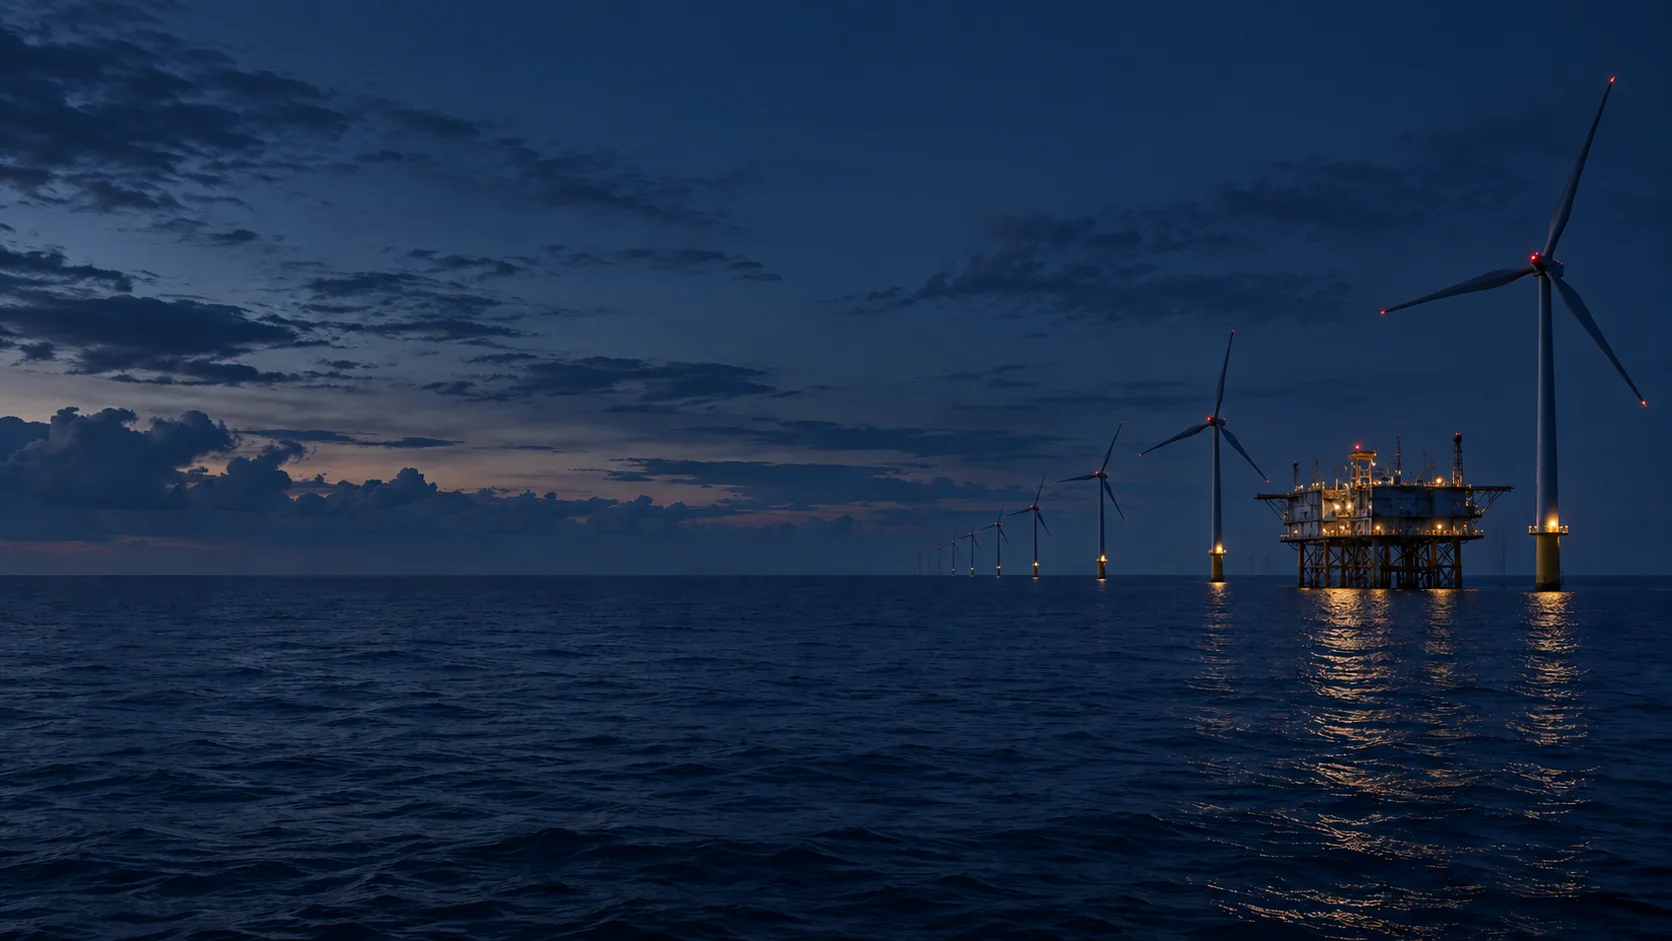
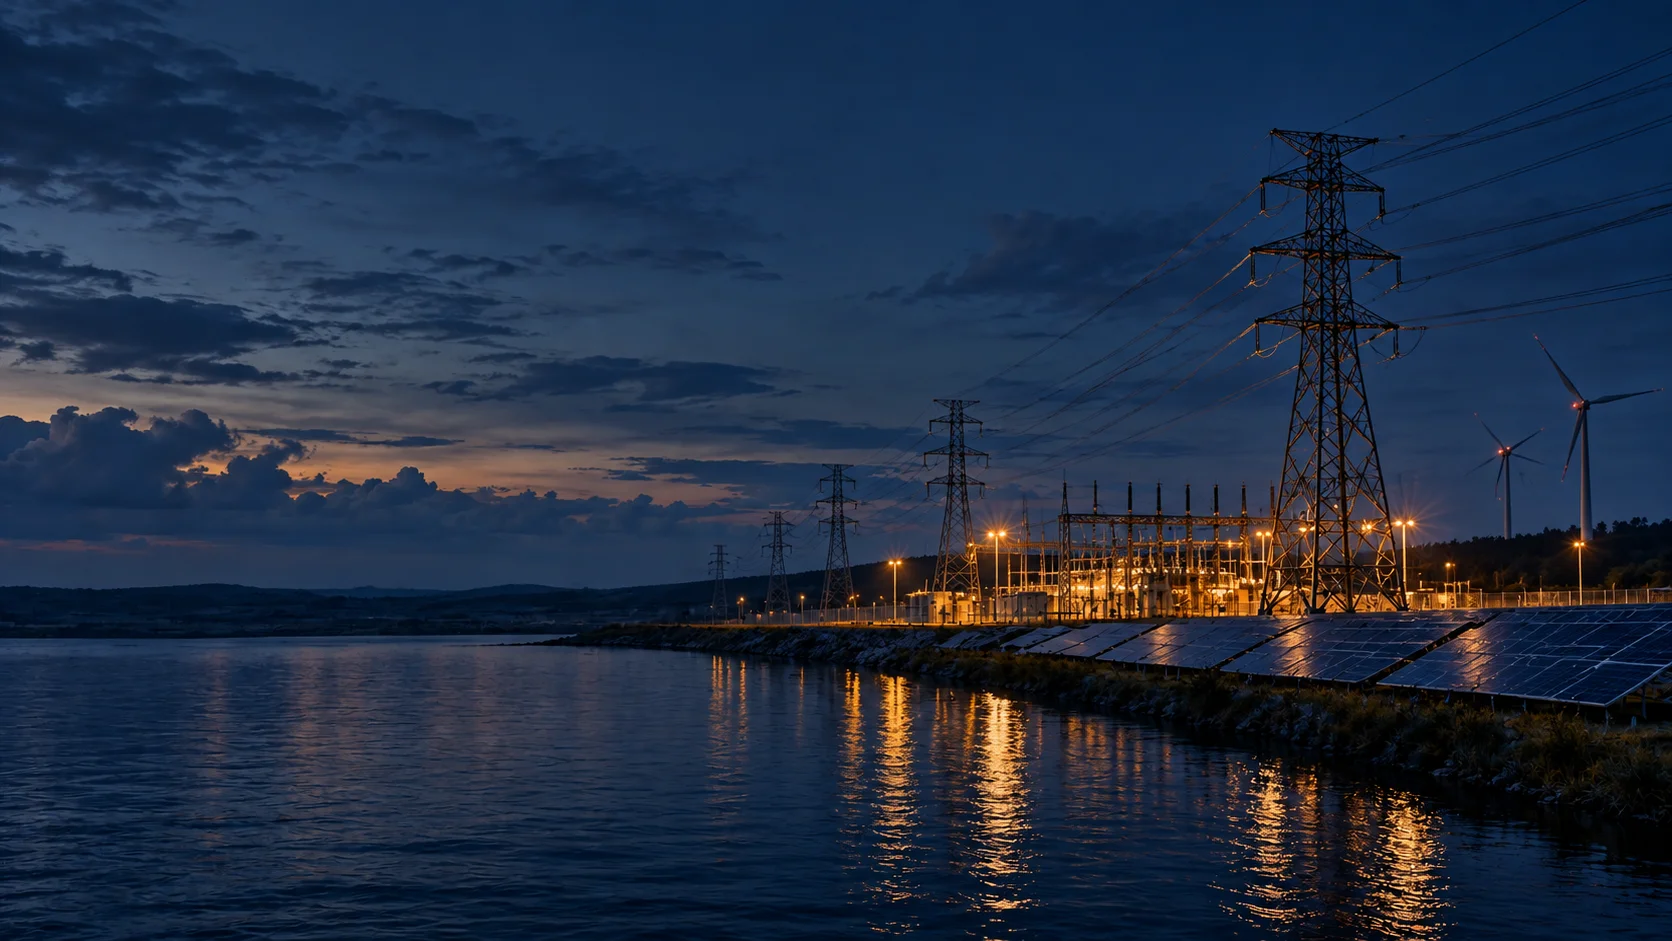
104: clarify energy hero imagery

diff --git a/docs/current-state/02-pages/public-home.md b/docs/current-state/02-pages/public-home.md
@@ -17,7 +17,7 @@ A static public entry point into the skills → opportunities → gaps → train
 
 ## Image and accessibility
 
-`public/images/offshore-hero.webp` is an approximately 100 KB WebP derived from the user-approved image generated with the built-in image-generation tool. `public/images/energy-hero.webp` is an approximately 114 KB WebP generated from that scene’s visual language as a broader energy-sector scene with offshore wind infrastructure. `public/images/offshore-overhead.webp` is an approximately 170 KB WebP generated from the original scene as a straight-down view for the closing call to action. All depict fictional energy infrastructure, not an identified facility or employer. The hero labels the image as an AI-generated illustration; the source prompts requested no text or branding.
+`public/images/offshore-hero.webp` is an approximately 100 KB WebP derived from the user-approved image generated with the built-in image-generation tool. `public/images/energy-hero.webp` is an approximately 173 KB WebP generated from that scene’s visual language as a clearly electrical-energy scene with a substation, transmission pylons, solar panels, and wind turbines. `public/images/offshore-overhead.webp` is an approximately 170 KB WebP generated from the original scene as a straight-down view for the closing call to action. All depict fictional energy infrastructure, not an identified facility or employer. The hero labels the image as an AI-generated illustration; the source prompts requested no text or branding.
 
 Next.js serves responsive image sizes and preloads the hero. Both decorative images have empty alt attributes, with dark overlays for readable text. Navigation wraps on narrow screens; content can expand vertically without a fixed height. White keyboard focus outlines remain visible over the image. No animation or carousel is used.
 
